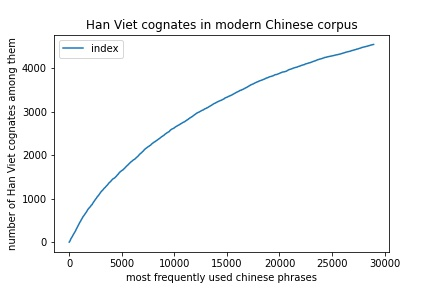
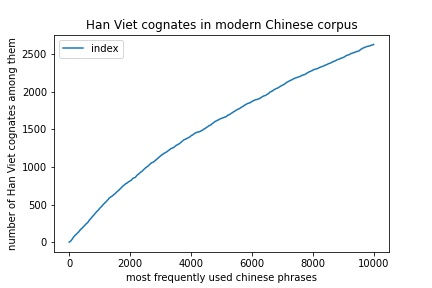
Update graph (limit at top 10,000 Chinese words)

diff --git a/README.md b/README.md
@@ -62,13 +62,13 @@ I also want to have a nice list of these words, so that perhaps I could focus on
 
 ### 1. Starting with Chinese phrases
 
-To start off, we need a Chinese words frequency list. I chose the [Leeds database](http://corpus.leeds.ac.uk/frqc/internet-zh.num); but I've also included the [BLCU database](https://www.plecoforums.com/threads/word-frequency-list-based-on-a-15-billion-character-corpus-bcc-blcu-chinese-corpus.5859/) which can be run against with some minor tweaks in the code. Either of them should be good for our purpose.
+First, we need a Chinese words frequency list. I chose the [Leeds database](http://corpus.leeds.ac.uk/frqc/internet-zh.num); but I've also included the [BLCU database](https://www.plecoforums.com/threads/word-frequency-list-based-on-a-15-billion-character-corpus-bcc-blcu-chinese-corpus.5859/) which can be run against with some minor tweaks in the code. Either of them should be good for our purpose.
 
 Note that both lists are based on Simplified Chinese.
 
 ### 2. Translating to Han Viet sounds
 
-Next, we need to find the corresponding Han Viet sounds for each Chinese words. This is done by looking up the [Thiều Chữu dictionary](https://vi.wikipedia.org/wiki/Thi%E1%BB%81u_Ch%E1%BB%ADu).
+Second, we need to find the corresponding Han Viet sounds for each Chinese words. This is done by looking up the [Thiều Chữu dictionary](https://vi.wikipedia.org/wiki/Thi%E1%BB%81u_Ch%E1%BB%ADu).
 
 The Thiều Chữu dictionary is character-dictionary, not word. It means that for each word, we need to find out the sound for each character and combine them together. For example:
 ```
@@ -105,7 +105,7 @@ There is also a problem with the Thiều Chữu dictionary where some character 
 
 ### 3. Which ones are legitimate Han Viet words?
 
-Finally, we need to find out which one of these Han Viet sounds are actually valid modern Han Viet words.
+Third, we need to find out which one of these Han Viet sounds are actually valid modern Han Viet words.
 
 To do this, we rely on the file [vietphrases.txt](inputs/vietphrases.txt) produced by a Vietnamese translation community (`source missing`). This file contains the translation of common Chinese phrases. Let's take a look at a few examples:
 
@@ -121,15 +121,19 @@ That is the trick we're going to do here: we're going to recognize a word as a v
 
 This is nowhere near foolproofed, and it depends on the quality of this file `vietphrases.txt`. But our assumption here is that if a word is good enough to be included in the Vietnamese translation by the translation community, we're going to assume that it is a word recognisable by a typical Vietnamese.
 
+### 4. Weed out the really uncommon words
+
+Finally, we must realize that a lot of Han Viet words are still rather uncommon words that a typical Vietnamese speaker might not be familiar with. In this step, we will weed out these words by running the list against a colloquial Vietnamese [word frequency list](https://github.com/garfieldnate/vi_experiments/tree/master/opensubs_word_list) collected from Open Subtitles. Words that have a frequency of 1, or do not exist in that list, are removed from the final results.
+
 # Results
 
 ### List of Han Viet cognates
 
-The full list of 4,501 words can be downloaded from [chinese-hanviet-cognates.tsv](outputs/chinese-hanviet-cognates.tsv). An example of the first 100 entries can be found at the end of this document.
+The full list of 4,543 words can be downloaded from [chinese-hanviet-cognates.tsv](outputs/chinese-hanviet-cognates.tsv). An example of the first 100 entries can be found at the end of this document.
 
 It could be useful for a Vietnamese learning Chinese looking for a list of easy to learn words.
 
-The full list of 28,956 non-cognates can also be downloaded from [chinese-hanviet-non-cognates.tsv](outputs/chinese-hanviet-non-cognates.tsv). This is also an interesting list to look at because while the first list sounds familiar to a Vietnamese speaker, this second list almost feels like it's an entirely different language.
+The full list of 24,414 non-cognates can also be downloaded from [chinese-hanviet-non-cognates.tsv](outputs/chinese-hanviet-non-cognates.tsv). This is also an interesting list to look at because while the first list sounds familiar to a Vietnamese speaker, this second list almost feels like it's an entirely different language.
 
 ### Chart
 
@@ -137,9 +141,9 @@ I also plotted the first column against the second column:
 
 ![img](./outputs/chart.jpg)
 
-As can be seen from this, around 1/5-1/6 of the most frequently used modern Chinese phrases have a Han Viet cognate.
+I only consider the top 10,000 Chinese words since we're only considering the common Vietnamese words. The graph is expected to flatten out as we go into the area of uncommon words.
 
-The steeper slope on the left side of the chart means that this ratio is slightly higher among the top most frequently used Chinese phrases.
+As can be seen from this, around 1/2 to 1/4 of the most frequently used modern Chinese phrases have a Han Viet cognate.
 
 ### Limitations
 
@@ -160,8 +164,6 @@ The steeper slope on the left side of the chart means that this ratio is slightl
 * More analysis on single-syllabic cognates.
 
 * Replace Thiều Chữu dictionary with a more comprehensive way to produce Han Viet sound. Perhaps [Thi Vien](https://hvdic.thivien.net/)?
-
-* Run the final results against a more colloquial Vietnamese word list, to weed out "dictionary" words that the common man is not familiar with. For example [this frequency list](https://github.com/garfieldnate/vi_experiments/tree/master/opensubs_word_list) collected from Open Subtitles. I haven't added this to this Jupyter notebook, but I've done it in Google Sheet and you can download this cleaned up list here: [here](https://docs.google.com/spreadsheets/d/1Kub_t0bWny34OlFe8bdO8kSVXyQiVoRUIywLcGameFg/edit?usp=sharing).
 
 * Manual vetting of the results.
 
